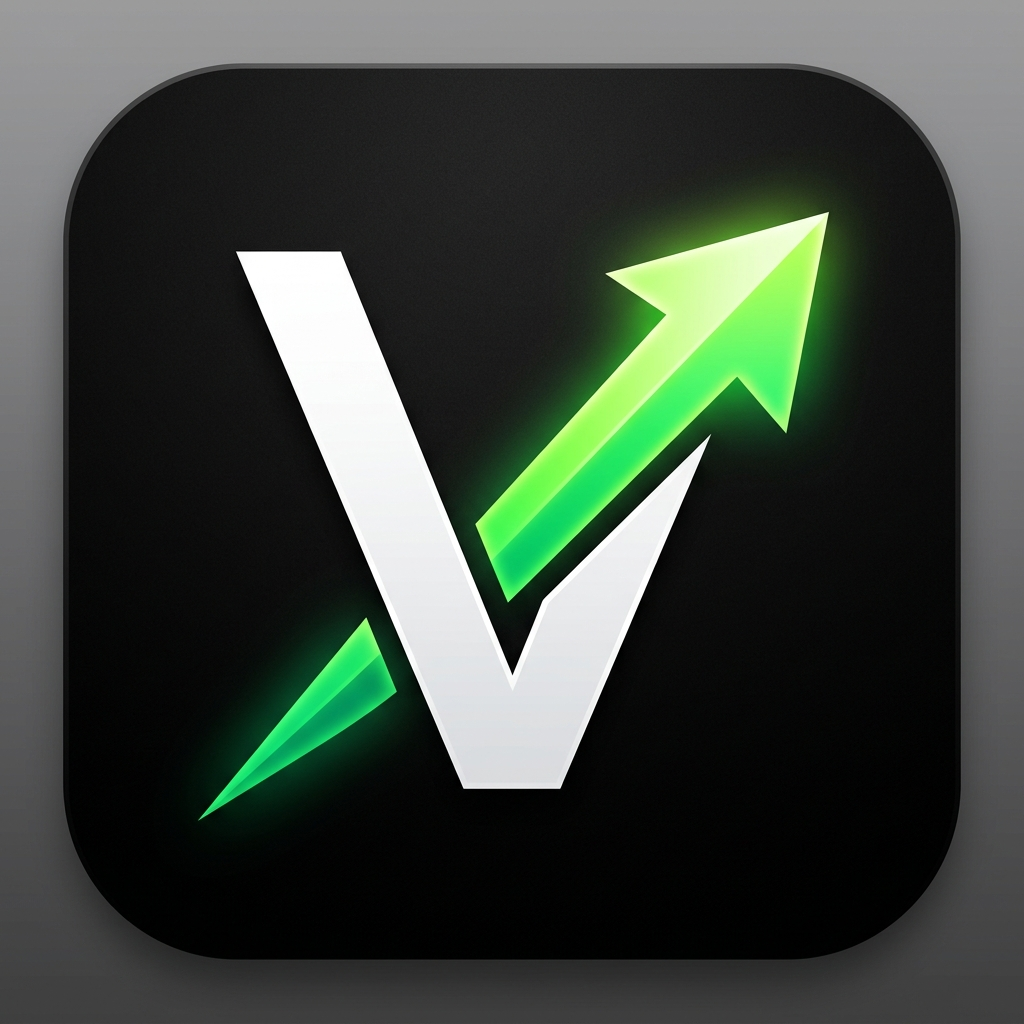
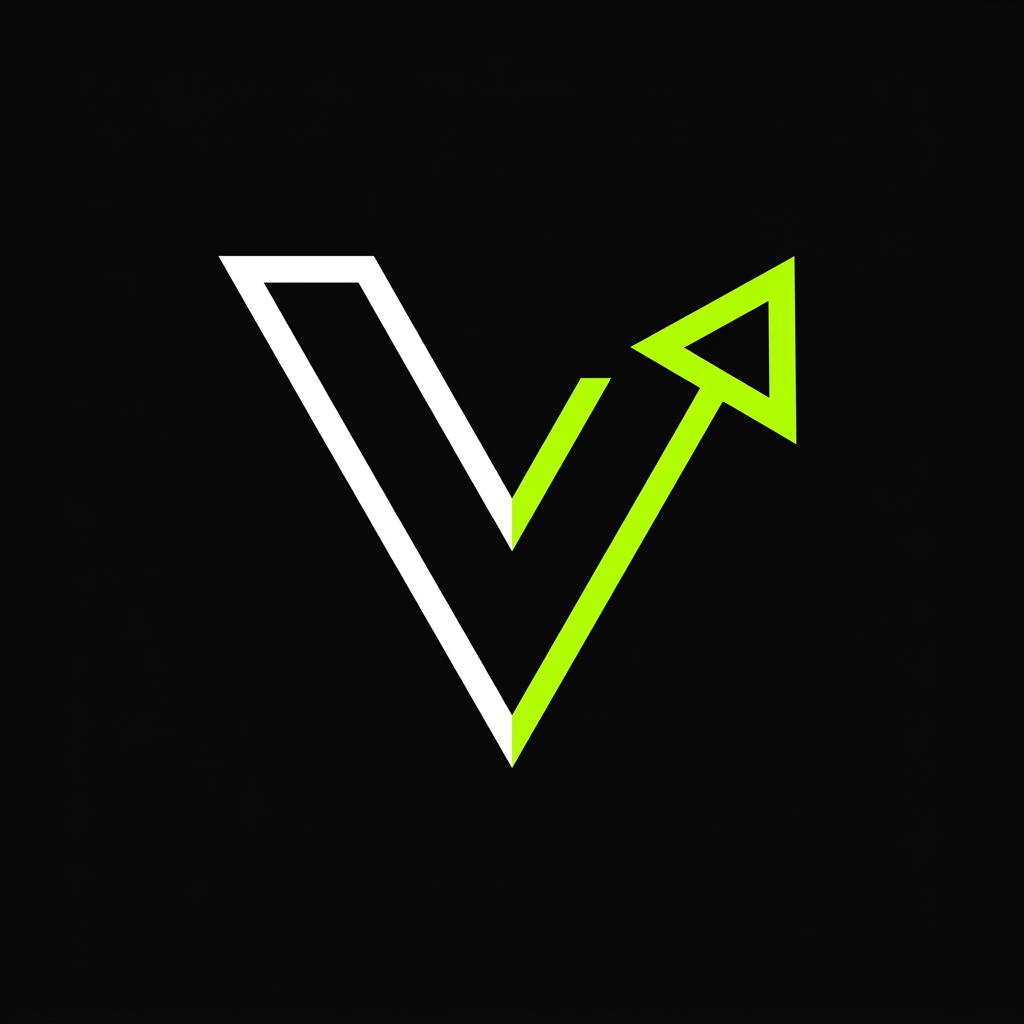
Refinement: Updated to Minimalist and Modern branding version

diff --git a/finance-dashboard/src/index.css b/finance-dashboard/src/index.css
@@ -4,16 +4,15 @@
 
 @layer utilities {
   .glass {
-    @apply bg-slate-900/40 backdrop-blur-xl rounded-2xl border border-white/10 hover:border-brand-green/30 transition-all duration-500;
+    @apply bg-slate-900/20 backdrop-blur-2xl rounded-2xl border border-white/5 hover:border-brand-green/20 transition-all duration-700;
   }
   
   .neon-glow {
-    box-shadow: 0 0 20px rgba(163, 255, 18, 0.2);
+    box-shadow: 0 0 15px rgba(163, 255, 18, 0.1);
   }
   
   .text-neon {
     color: #A3FF12;
-    text-shadow: 0 0 10px rgba(163, 255, 18, 0.5);
   }
 
   .bg-neon-gradient {
